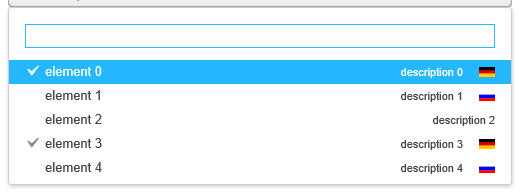
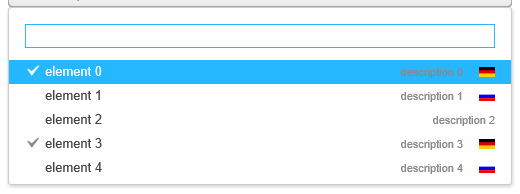
RG-1086: FIxed. Firefox doesn't cut labels correctly in narrow lists. Fix gemini tests
Former-commit-id: 454e5f81c1c1214f362da00435d6d41182114861

diff --git a/components/list/list.scss b/components/list/list.scss
@@ -124,7 +124,7 @@ $list-spacing: $ring-unit / 2;
     padding-left: $ring-unit * 2;
     text-align: right;
 
-    color: #ADADAD;
+    color: $ring-dark-gray-color;
     font-size: $ring-font-size-smaller;
   }
 }
@@ -151,10 +151,10 @@ $list-spacing: $ring-unit / 2;
 
 .ring-list__glyph {
   position: relative;
+  margin-right: $ring-unit;
   top: -2px;
   width: 20px;
   float: left;
-  margin-right: $ring-unit;
 
   color: $ring-dark-gray-color;
 
@@ -166,6 +166,10 @@ $list-spacing: $ring-unit / 2;
     float: right;
     margin-right: 0;
     margin-left: $ring-unit * 2;
+  }
+
+  &_checkbox {
+    margin-right: 0;
   }
 
   .ring-list__item_active & {

diff --git a/components/list/list__item.js b/components/list/list__item.js
@@ -38,6 +38,7 @@ export default function ListItem(props) {
         <Icon
           className={classnames({
             'ring-list__glyph': true,
+            'ring-list__glyph_checkbox': true,
             'ring-list__glyph_hidden': !checkbox
           })}
           glyph={require('jetbrains-icons/check.svg')}
